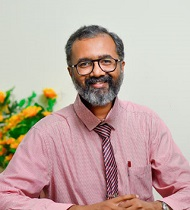
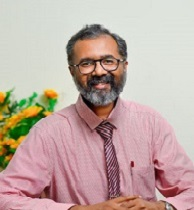
lots of change done.

diff --git a/decyen/controllers/ParticipantController.php b/decyen/controllers/ParticipantController.php
@@ -434,38 +434,65 @@ window.location.assign('index.php?controller=participant&action=abstract_submiss
            $userId = $_SESSION['user_id'];
            $model = new ParticipantModel;
            $coauthor_result = $model->coAuthorDetails($userId);
-            if(mysqli_num_rows($coauthor_result) > 0){
-                while ($row = mysqli_fetch_assoc($coauthor_result)){
 
-                    $first_names  = explode(',', $row['first_name']);
-                    $middle_names = explode(',', $row['middle_name']);
-                    $last_names   = explode(',', $row['last_name']);
+            // if(mysqli_num_rows($coauthor_result) > 0){
+            //     while ($row = mysqli_fetch_assoc($coauthor_result)){
 
-                    // Remove first element (Present Author)
-                    array_shift($first_names);
-                    array_shift($middle_names);
-                    array_shift($last_names);
+            //         $first_names  = explode(',', $row['first_name']);
+            //         $middle_names = explode(',', $row['middle_name']);
+            //         $last_names   = explode(',', $row['last_name']);
 
-                    // Get count of co-authors
-                    $count = count($first_names);
+            //         // Remove first element (Present Author)
+            //         array_shift($first_names);
+            //         array_shift($middle_names);
+            //         array_shift($last_names);
 
-                    for ($i = 0; $i < $count; $i++){
+            //         // Get count of co-authors
+            //         $count = count($first_names);
+
+            //         for ($i = 0; $i < $count; $i++){
 
 
-                        $fname = trim($first_names[$i]);
-                        $mname = trim($middle_names[$i]);
-                        $lname = trim($last_names[$i]);
+            //             $fname = trim($first_names[$i]);
+            //             $mname = trim($middle_names[$i]);
+            //             $lname = trim($last_names[$i]);
 
-                        $full_name = 'Dr.'. ' ' . $fname . ' ' . $mname . ' ' . $lname;
+                        
+            //             $full_name = 'Dr.'. ' ' . $fname . ' ' . $mname . ' ' . $lname;
 
-                    }
+            //         }
 
             
 
 
-                }
+            //     }
 
-            } 
+            // }
+            
+            $coAuthors = [];
+        if ($coauthor_result) {
+            while ($row = mysqli_fetch_assoc($coauthor_result)) {
+                $firstNames  = array_map('trim', explode(',', $row['first_name']));
+                $middleNames = array_map('trim', explode(',', $row['middle_name']));
+                $lastNames   = array_map('trim', explode(',', $row['last_name']));
+
+                // Remove first element (main/presenting author)
+                array_shift($firstNames);
+                array_shift($middleNames);
+                array_shift($lastNames);
+
+                $count = count($firstNames);
+                for ($i = 0; $i < $count; $i++) {
+                    $fname = $firstNames[$i] ?? '';
+                    $mname = $middleNames[$i] ?? '';
+                    $lname = $lastNames[$i] ?? '';
+                    if ($fname !== '') {
+                        $fullName = trim('Dr. ' . $fname . ' ' . $mname . ' ' . $lname);
+                        $coAuthors[] = ['full_name' => $fullName];
+                    }
+                }
+            }
+        }
 
 
             

diff --git a/decyen/views/participant/co_author_certificates.php b/decyen/views/participant/co_author_certificates.php
@@ -18,20 +18,19 @@
                                     <th>Action</th>
                                 </tr>
                             </thead>
-
                             <tbody>
-
+                                <?php foreach ($coAuthors as $author): ?>
                                 <tr>
-                                    <td><?php echo $full_name; ?></td>
+                                    <td><?php echo htmlspecialchars($author['full_name']); ?></td>
                                     <td>Certificate for co-authors</td>
                                     <td>
-                                        <a href="index.php?controller=certificate&action=downloadGenerated&type=co_author_certificate&name=<?php echo urlencode($full_name); ?>"
+                                        <a href="index.php?controller=certificate&action=downloadGenerated&type=co_author_certificate&name=<?php echo urlencode($author['full_name']); ?>"
                                             class="btn btn-success btn-sm">
                                             <i class="fa-solid fa-download"></i> Download
                                         </a>
                                     </td>
                                 </tr>
-                            
+                                <?php endforeach; ?>
                             </tbody>
                         </table>
                     </div>
@@ -40,4 +39,4 @@
             </div>
         </div>
     </div>
-</div>    
+</div>

diff --git a/decyen/controllers/AdminController.php b/decyen/controllers/AdminController.php
@@ -791,7 +791,16 @@ class AdminController
             'mindful_map' => 'Pre-Conference Workshop - Mindful Map',
             'sage' => 'Pre-Conference SAGE',
             'itlm' => 'Pre-Conference Interactive Teaching Learning Methods',
-            'workshop_bridging' => 'Workshop Course - Bridging Mind Building Care'
+            'workshop_bridging' => 'Workshop Course - Bridging Mind Building Care',
+            'workshop_proms_prems' => 'Enhancing Health Care Using PROMs, PREMs, and Experiences in Dentistry- Workshop',
+            'workshop_microteaching' => 'Microteaching Workshop',
+            'first_place_paper' => '1st Place Paper Award',
+            'second_place_paper' => '2nd Place Paper Award',
+            'first_place_poster' => '1st Place Poster Award',
+            'second_place_poster' => '2nd Place Poster Award',
+            'first_place_yenvision' => '1st Place YenVision Award',
+            'second_place_yenvision' => '2nd Place YenVision Award',
+            'co_author_certificate' => 'Co-Author certificate'
         ];
 
         // require_once __DIR__ . '/../views/admin/generated_certificates.php';

diff --git a/views/keynote_speakers.php b/views/keynote_speakers.php
@@ -17,8 +17,10 @@
       <h1 class="mb-4">VIDYEN Conference 2025 –<span class="text-primary"> Keynote Speakers</span></h1>
     </center>
     <!-- <h1 class="text-center text-info blink mt-5">Will Be Updated Soon</h1> -->
-   
- <div class="row mt-5">
+    <center>
+      <h4 class="mb-4"><span class="text-primary"> Coming Soon</span></h1>
+    </center>
+    <!-- <div class="row mt-5">
       <div class="col-lg-3 ">
       </div>
       <div class="col-lg-6 ">
@@ -46,20 +48,12 @@
       </div>
       <div class="col-lg-3 ">
       </div>
-    </div>
+  </div> -->
 
-    <!-- <div class="row ">
-      <div class="col-lg-3 ">
-      </div>
-      <div class="col-lg-6 ">
-       <img class="img-fluid rounded w-100 mb-4" src="<?= ROOT ?>/assets/images/brochure/keynote4.jpeg" alt="Image4">
-      </div>
-      <div class="col-lg-3 ">
-      </div>
-    </div> -->
+    
 
   </div>
-</div>
+  </div>
 <!-- About End -->
 
 

diff --git a/views/previous_conference.php b/views/previous_conference.php
@@ -136,7 +136,7 @@
 
     <?php foreach ($sections as $section): ?>
     <div class="row mt-5">
-      <div class="col-lg-12 pt-3 pb-lg-3">
+      <!-- <div class="col-lg-12 pt-3 pb-lg-3">
         <h1 class="section-title"><?php echo $section['title']; ?></h1>
       </div>
       <div class="col-lg-12">
@@ -162,9 +162,13 @@
             <span class="sr-only">Next</span>
           </a>
         </div>
-      </div>
+      </div> -->
+       
     </div>
     <?php endforeach; ?>
+    <center>
+      <h4 class="mb-4"><span class="text-primary"> Coming Soon</span></h1>
+    </center>
 
   </div>
 </div>

diff --git a/decyen/views/admin/generated_certificates.php b/decyen/views/admin/generated_certificates.php
@@ -23,7 +23,7 @@
                             </div>
                         </div>
                         <?php foreach ($certTypes as $key => $name): ?>
-                            <div class="col-md-2">
+                            <div class="col-md-2 mt-1 text-center">
                                 <div class="card bg-info text-white p-2">
                                     <h6 class="small"><?= substr($name, 0, 15) ?>...</h6>
                                     <h4><?= $stats[$key] ?? 0 ?></h4>

diff --git a/views/scientific_brochure.php b/views/scientific_brochure.php
@@ -15,7 +15,10 @@
       <span id="page-number"></span>
       <button id="next-button" class="btn btn-primary">Next</button>
     </div> -->
- <div class="row mt-5">
+     <center>
+      <h4 class="mb-4"><span class="text-primary"> Coming Soon</span></h1>
+    </center>
+ <!-- <div class="row mt-5">
     	<div class="col-lg-3 ">
     	</div>
       <div class="col-lg-6 ">
@@ -95,7 +98,7 @@
     	</div>
     </div> 
   </div>
-</div>
+</div> -->
 <!-- About End -->
 
 

diff --git a/views/scientific_guidelines.php b/views/scientific_guidelines.php
@@ -2,7 +2,7 @@
 <div class="container-fluid py-5 mb-2">
   <div class="container">
     <center>
-      <h1 class="mb-4">VIDYEN Conference 2025 –<span class="text-primary"> Scientific Guidelines</span></h1>
+      <h1 class="mb-4">VIDYEN Conference 2026 –<span class="text-primary"> Scientific Guidelines</span></h1>
     </center>
     <!-- <div class="d-flex justify-content-center">
     	<div id="pdf-container"></div>

diff --git a/views/header.php b/views/header.php
@@ -140,7 +140,7 @@
     <!-- Header End -->
     <section style="width: 100%;">
         <div class="container-fluid p-0">
-            <img src="<?= ROOT ?>/assets/images/vidyen-banner.webp" alt="first_image" width="100%" height="100%">
+            <img src="<?= ROOT ?>/assets/images/vidyen-banner4.0.jpg" alt="first_image" width="100%" height="100%">
         </div>
     </section>
 
